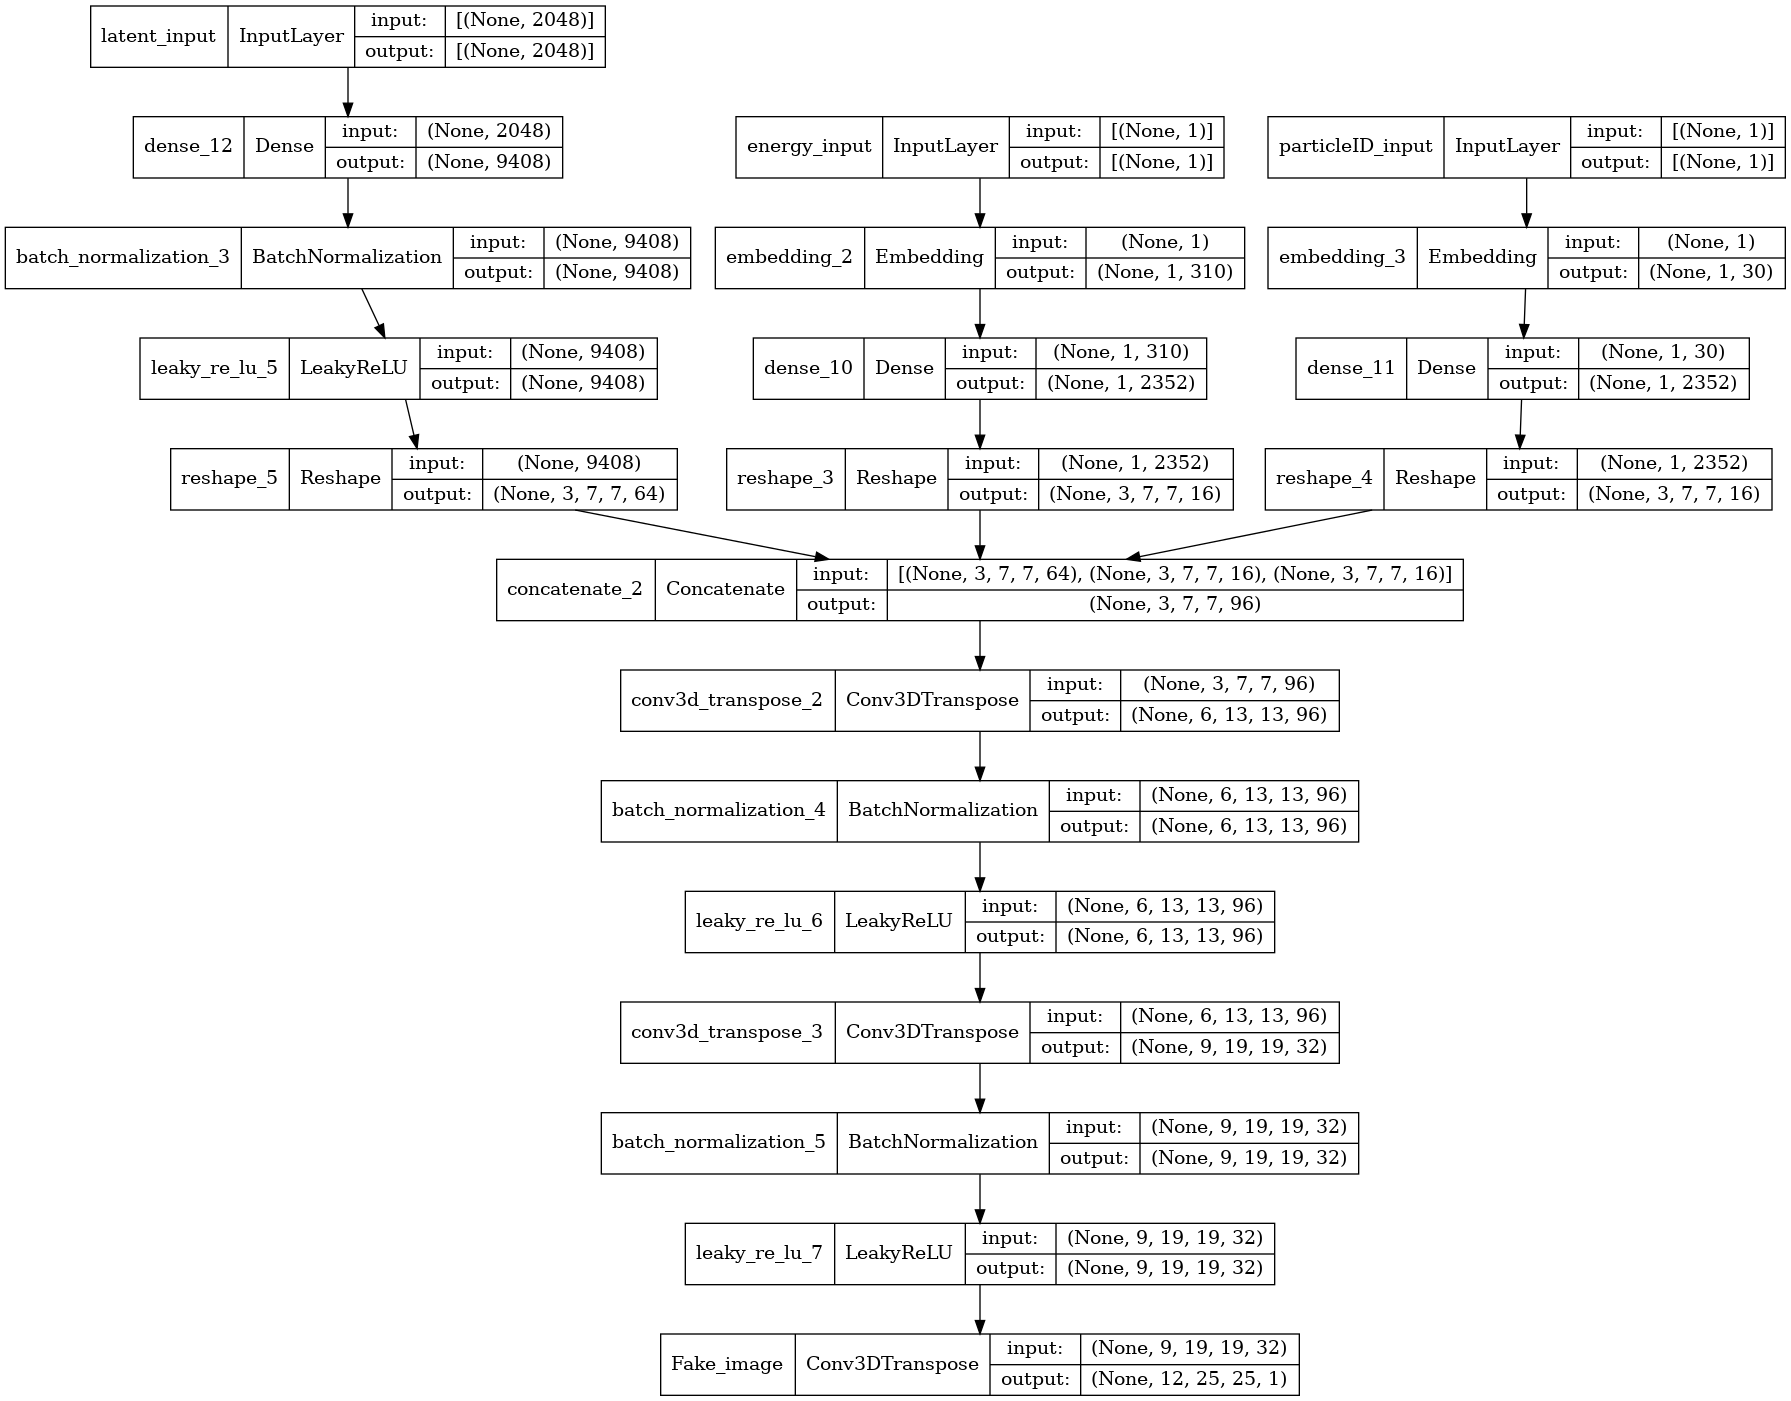
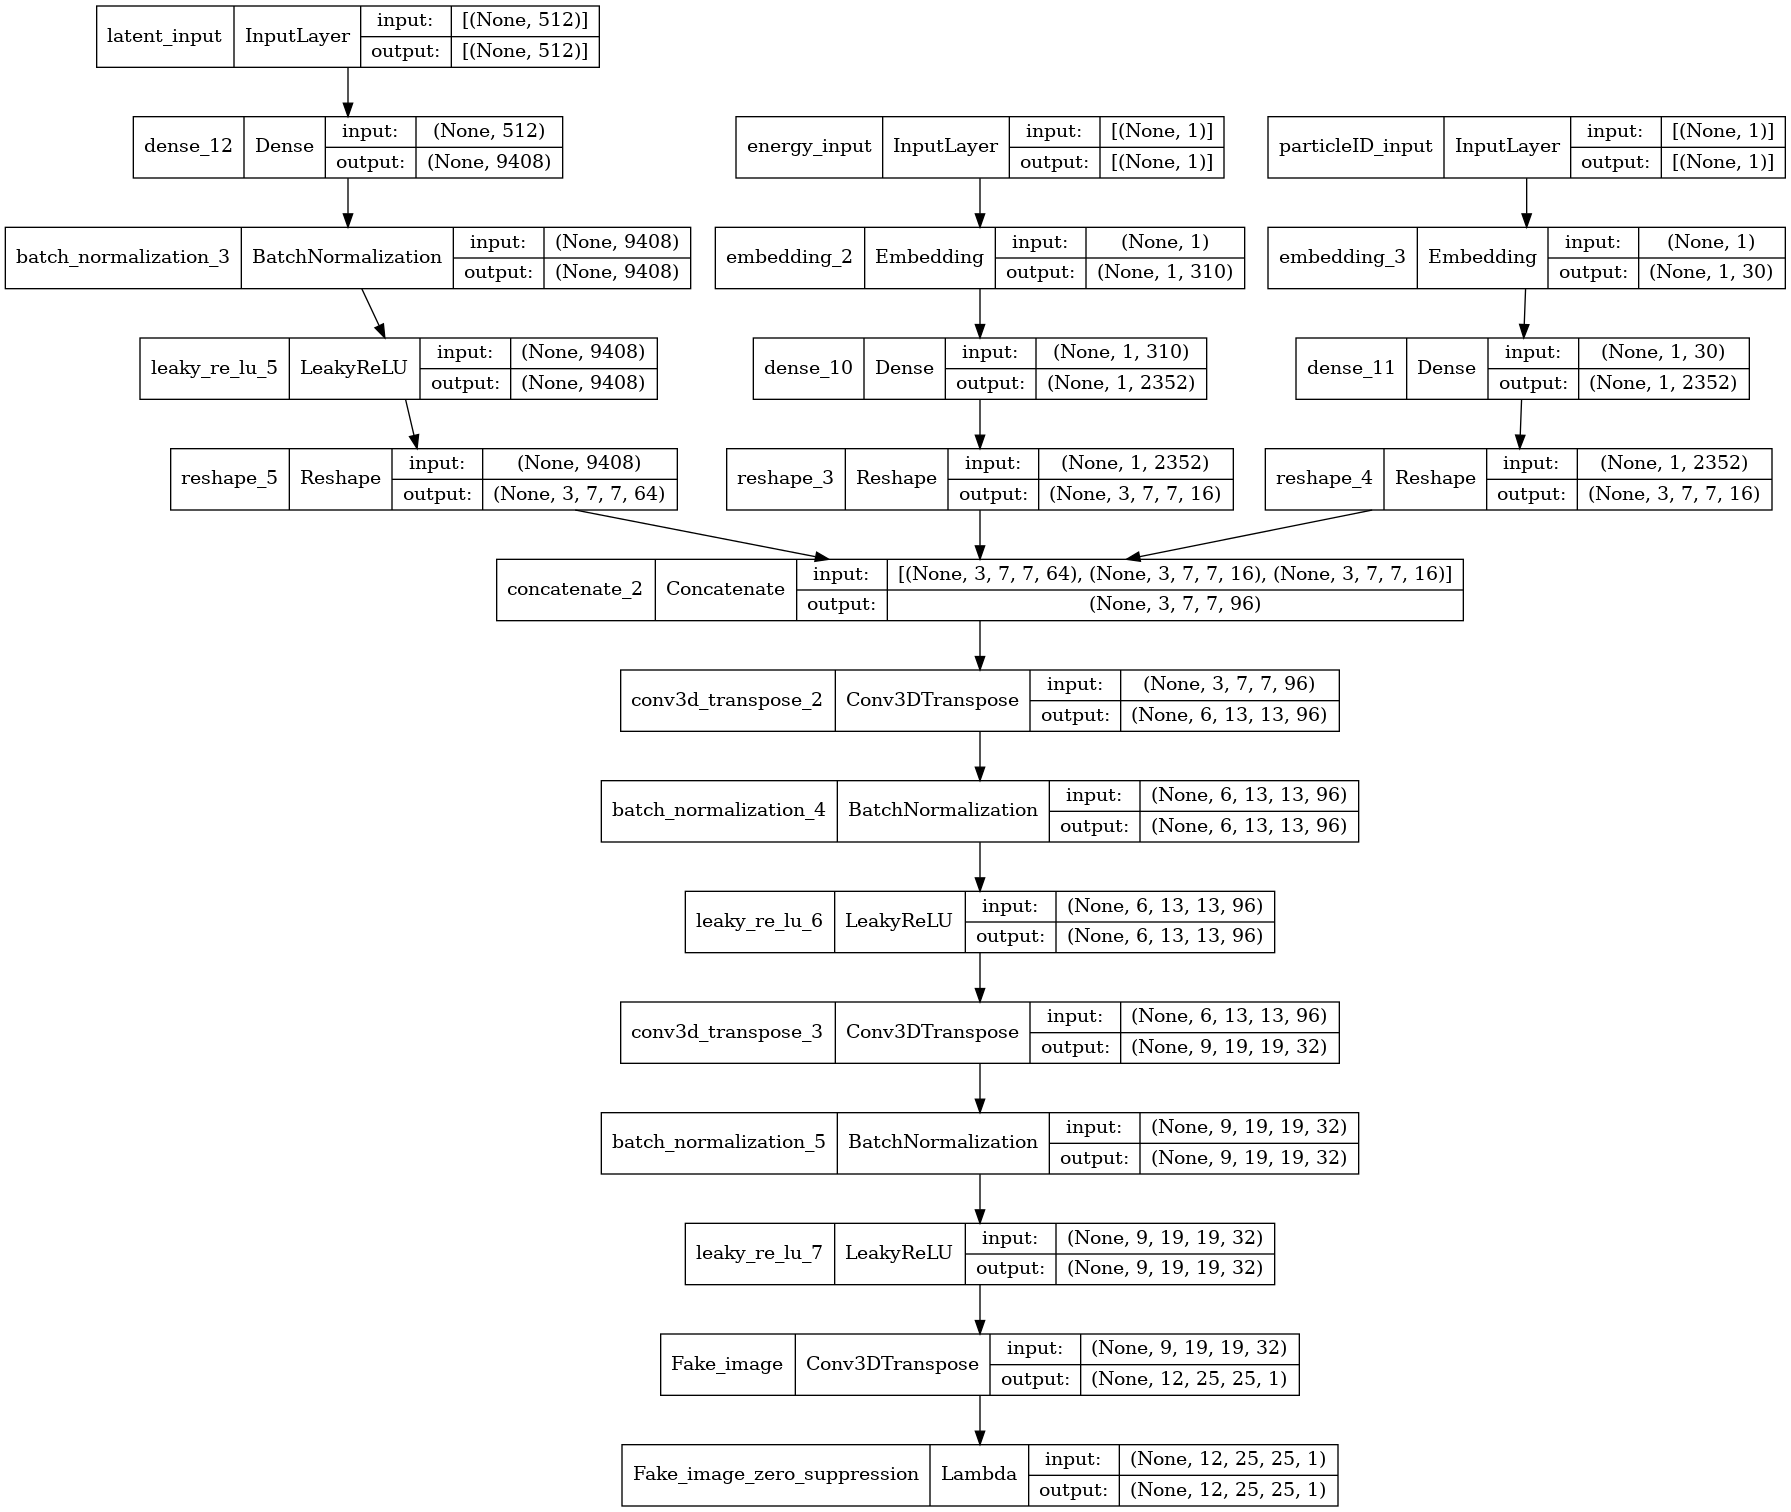
Reduced noise dim, added cutoff lambda layer in generator output

Changed region(s): [[0.0, 0.0, 1.0, 1.0]]

diff --git a/EM_shower_simulator/make_models.py b/EM_shower_simulator/make_models.py
@@ -30,7 +30,7 @@ from tensorflow.keras.layers import (Input,
 # Configuration parameters
 N_PID = 3
 N_ENER = 30 + 1
-NOISE_DIM = 2048
+NOISE_DIM = 512
 MBSTD_GROUP_SIZE = 32                                     #minibatch dimension
 ENERGY_NORM = 6.7404
 ENERGY_SCALE = 1000000.
@@ -41,6 +41,17 @@ logger = logging.getLogger("ModelsLogger")
 
 #-------------------------------------------------------------------------------
 """Subroutines for the generator network."""
+def zero_suppression(output):
+    """Zero suppression on output images
+    """
+    cutoff = tf.zeros_like(output)
+    void_pixel = -tf.ones_like(output)
+
+    def f_true(): return output
+    def f_false(): return void_pixel
+
+    output = tf.where( tf.greater(output , cutoff), cutoff, void_pixel)
+    return output
 
 def make_generator_model():
     """Define generator model:
@@ -106,7 +117,7 @@ def make_generator_model():
 
     output = (Conv3DTranspose(1, KERNEL, use_bias=False,
                               activation="tanh", name="Fake_image")(gen))
-
+    output = Lambda(zero_suppression, name="Fake_image_zero_suppression")(output)
     logger.info(f"Shape of the generator output: {output.get_shape()}")
     assert output.get_shape().as_list()==[None, *GEOMETRY], error
 

diff --git a/EM_shower_simulator/class_GAN.py b/EM_shower_simulator/class_GAN.py
@@ -31,7 +31,7 @@ ENERGY_SCALE = 1000000
 N_PID = 3                               # number of pid classes
 N_ENER = 30 + 1                         # number of en classes
 PARAM_EN = 0.01                         # parameter in energy losses computation
-NOISE_DIM = 2048
+NOISE_DIM = 512
 BUFFER_SIZE = 10400
 
 MBSTD_GROUP_SIZE = 8                    # minibatch dimension
@@ -286,8 +286,8 @@ class ConditionalGAN(tf.keras.Model):
             fake_parID = cross_entropy(parID, fake_output[2])
             real_parID = cross_entropy(parID, real_output[2])
 
-            aux_gener_loss = (fake_energ + fake_parID + computed_e) * PARAM_EN
-            aux_discr_loss = (real_energ + real_parID) * PARAM_EN
+            aux_gener_loss = (fake_energ + computed_e) * PARAM_EN + fake_parID
+            aux_discr_loss = (real_energ) * PARAM_EN + real_parID
 
             # Compute total losses
             gener_total_loss = aux_gener_loss + gener_loss

diff --git a/EM_shower_simulator/debug.py b/EM_shower_simulator/debug.py
@@ -69,6 +69,7 @@ def debug_cgan(gan, path_list, num_examples=EXAMPLES):
 
     # Fake showers
     predictions = gener(noise, training=False)
+    print(images)
     decisions = discr(predictions, training=False)
     energy = compute_energy(predictions)
 
